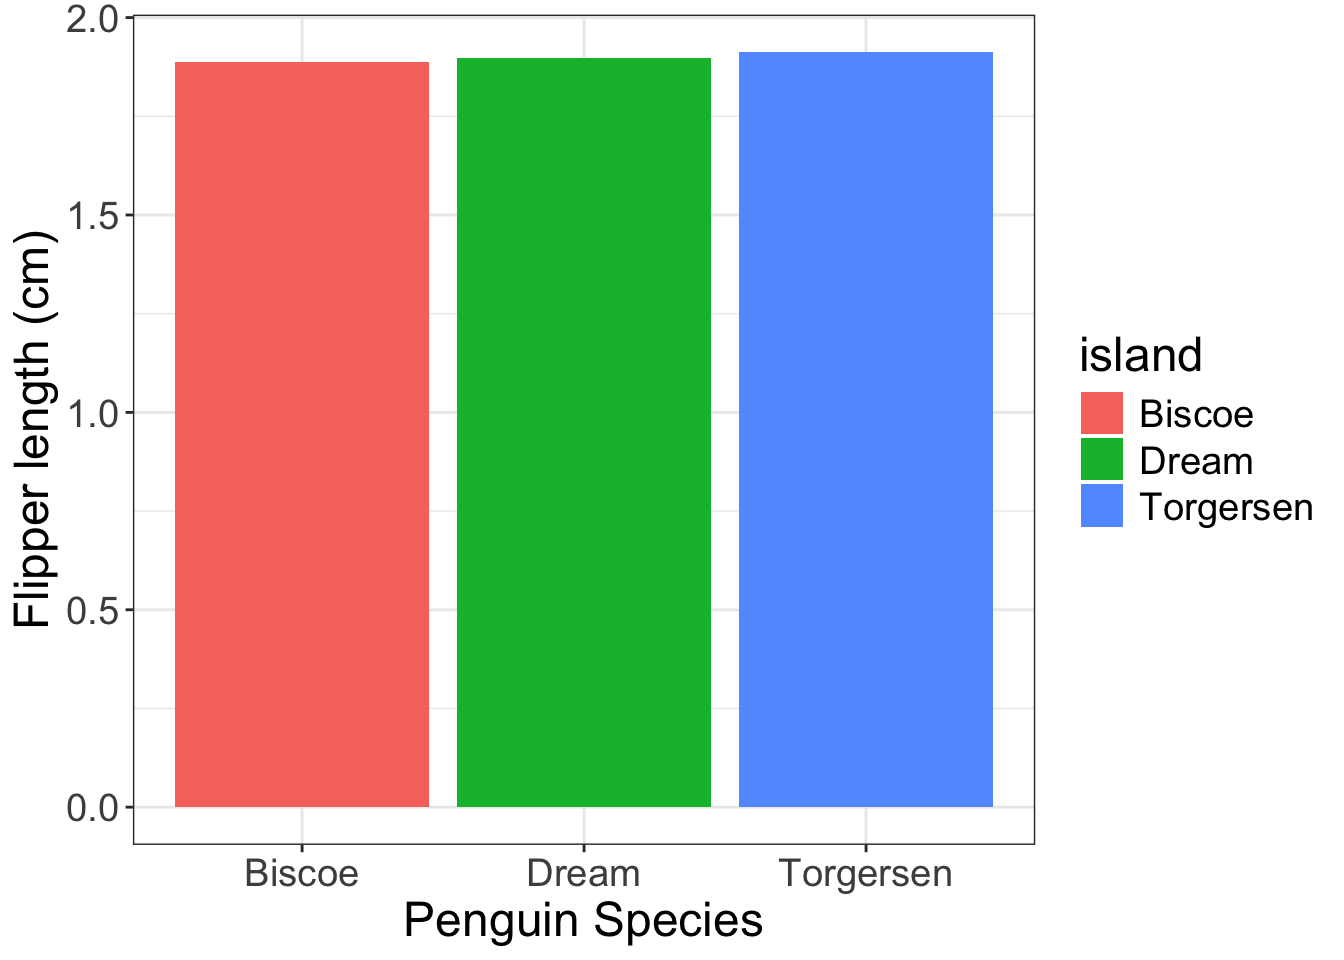
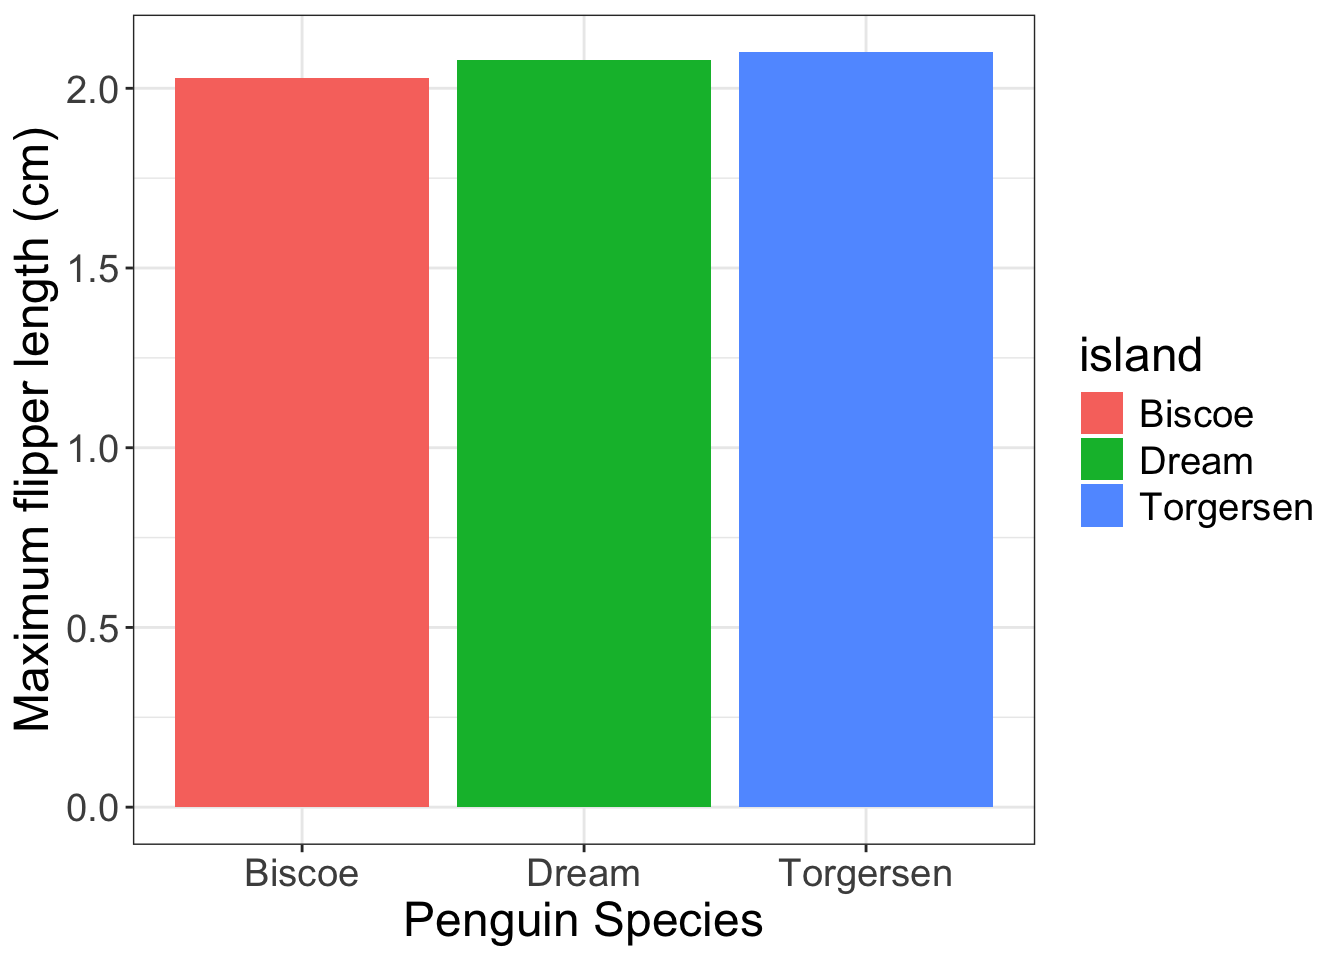
Rerender site

diff --git a/docs/posts/python_penguins/index.html b/docs/posts/python_penguins/index.html
@@ -9,7 +9,7 @@
 <meta name="author" content="Meredith Fraser">
 <meta name="dcterms.date" content="2026-09-22">
 
-<title>Visualizing the palmer penguins data Python – Meredith Fraser</title>
+<title>Visualizing the palmer penguins data with Python – Meredith Fraser</title>
 <style>
 /* Default styles provided by pandoc.
 ** See https://pandoc.org/MANUAL.html#variables-for-html for config info.
@@ -166,7 +166,7 @@ pre > code.sourceCode > span > a:first-child::before { text-decoration: underlin
 
 <header id="title-block-header" class="quarto-title-block default">
 <div class="quarto-title">
-<h1 class="title">Visualizing the palmer penguins data Python</h1>
+<h1 class="title">Visualizing the palmer penguins data with Python</h1>
 </div>
 
 
@@ -196,9 +196,9 @@ pre > code.sourceCode > span > a:first-child::before { text-decoration: underlin
 
 
 <p>In this blog, we are going to examine the palmer penguins dataset (Gorman et al., 2014; Palmer Penguins Dataset, 2014) using python. Data were collected and made available by Dr.&nbsp;Kristen Gorman and the Palmer Station, Antarctica LTER.</p>
-<p>I am interested in finding out which island (recorded from 3 islands in the Palmer Archipelage, Antarctica) has the longest average flipper length (cm) for all the Adelie penguin species measured (only species with flipper length measurements from all 3 islands).</p>
+<p>I am interested in finding out which island (recorded from 3 islands in the Palmer Archipelage, Antarctica) has the longest (maximum) flipper length (cm) for all the Adelie penguin species measured (only species with flipper length measurements from all 3 islands).</p>
 <p>I will first start by organizing or ‘tidying’ the data for our question.</p>
-<div id="ad11765d" class="cell" data-message="false" data-execution_count="1">
+<div id="9011653d" class="cell" data-message="false" data-execution_count="1">
 <div class="code-copy-outer-scaffold"><div class="sourceCode cell-code" id="cb1"><pre class="sourceCode python code-with-copy"><code class="sourceCode python"><span id="cb1-1"><a href="#cb1-1" aria-hidden="true" tabindex="-1"></a><span class="co"># Import the required libraries</span></span>
 <span id="cb1-2"><a href="#cb1-2" aria-hidden="true" tabindex="-1"></a><span class="im">import</span> pandas <span class="im">as</span> pd</span>
 <span id="cb1-3"><a href="#cb1-3" aria-hidden="true" tabindex="-1"></a><span class="im">from</span> palmerpenguins <span class="im">import</span> load_penguins</span>
@@ -225,17 +225,18 @@ pre > code.sourceCode > span > a:first-child::before { text-decoration: underlin
 5  Torgersen               1.90</code></pre>
 </div>
 </div>
-<p>Now we can group the tidied data by island, to calculate the mean flipper length in cm, and then sort the resulting means from longest to shortest.</p>
-<div id="01240ed2" class="cell" data-execution_count="2">
+<p>Now we can group the tidied data by island, to calculate the max flipper length in cm, and then sort the resulting maximum flipper length measurements from longest to shortest.</p>
+<div id="d6e23277" class="cell" data-execution_count="2">
 <div class="code-copy-outer-scaffold"><div class="sourceCode cell-code" id="cb3"><pre class="sourceCode python code-with-copy"><code class="sourceCode python"><span id="cb3-1"><a href="#cb3-1" aria-hidden="true" tabindex="-1"></a>penguins_summary <span class="op">=</span> (</span>
 <span id="cb3-2"><a href="#cb3-2" aria-hidden="true" tabindex="-1"></a>    penguins_clean</span>
 <span id="cb3-3"><a href="#cb3-3" aria-hidden="true" tabindex="-1"></a>    .groupby([<span class="st">'island'</span>])[<span class="st">'flipper_length_cm'</span>]</span>
-<span id="cb3-4"><a href="#cb3-4" aria-hidden="true" tabindex="-1"></a>    .mean()</span>
-<span id="cb3-5"><a href="#cb3-5" aria-hidden="true" tabindex="-1"></a>    .sort_values(ascending<span class="op">=</span><span class="va">False</span>)</span>
-<span id="cb3-6"><a href="#cb3-6" aria-hidden="true" tabindex="-1"></a>    .reset_index()</span>
-<span id="cb3-7"><a href="#cb3-7" aria-hidden="true" tabindex="-1"></a>)</span></code></pre></div><button title="Copy to Clipboard" class="code-copy-button"><i class="bi"></i></button></div>
+<span id="cb3-4"><a href="#cb3-4" aria-hidden="true" tabindex="-1"></a>    .<span class="bu">max</span>()</span>
+<span id="cb3-5"><a href="#cb3-5" aria-hidden="true" tabindex="-1"></a>    .<span class="bu">round</span>(<span class="dv">3</span>)</span>
+<span id="cb3-6"><a href="#cb3-6" aria-hidden="true" tabindex="-1"></a>    .sort_values(ascending<span class="op">=</span><span class="va">False</span>)</span>
+<span id="cb3-7"><a href="#cb3-7" aria-hidden="true" tabindex="-1"></a>    .reset_index()</span>
+<span id="cb3-8"><a href="#cb3-8" aria-hidden="true" tabindex="-1"></a>)</span></code></pre></div><button title="Copy to Clipboard" class="code-copy-button"><i class="bi"></i></button></div>
 </div>
-<p>I want to produce a clean-looking table with the three islands sorted according to longest flipper length (measured in cm) for the Adelie penguin species.</p>
+<p>I want to produce a clean-looking table with the three islands sorted according to longest maximum flipper length (measured in cm) for the Adelie penguin species.</p>
 <div id="cell-table-penguin-flipper-length" class="cell" data-table-cap="Top 3 flipper length of Adelie penguin species by island." data-execution_count="3">
 <div class="code-copy-outer-scaffold"><div class="sourceCode cell-code" id="cb4"><pre class="sourceCode python code-with-copy"><code class="sourceCode python"><span id="cb4-1"><a href="#cb4-1" aria-hidden="true" tabindex="-1"></a>Adelie_flipper_table <span class="op">=</span> penguins_summary.style.hide(axis<span class="op">=</span><span class="st">"index"</span>)</span>
 <span id="cb4-2"><a href="#cb4-2" aria-hidden="true" tabindex="-1"></a>Adelie_flipper_table</span></code></pre></div><button title="Copy to Clipboard" class="code-copy-button"><i class="bi"></i></button></div>
@@ -243,31 +244,31 @@ pre > code.sourceCode > span > a:first-child::before { text-decoration: underlin
 <style type="text/css">
 </style>
 
-<table id="T_53ebf" class="caption-top table table-sm table-striped small">
+<table id="T_eef72" class="caption-top table table-sm table-striped small">
 <thead>
 <tr class="header">
-<th id="T_53ebf_level0_col0" class="col_heading level0 col0" data-quarto-table-cell-role="th">island</th>
-<th id="T_53ebf_level0_col1" class="col_heading level0 col1" data-quarto-table-cell-role="th">flipper_length_cm</th>
+<th id="T_eef72_level0_col0" class="col_heading level0 col0" data-quarto-table-cell-role="th">island</th>
+<th id="T_eef72_level0_col1" class="col_heading level0 col1" data-quarto-table-cell-role="th">flipper_length_cm</th>
 </tr>
 </thead>
 <tbody>
 <tr class="odd">
-<td id="T_53ebf_row0_col0" class="data row0 col0">Torgersen</td>
-<td id="T_53ebf_row0_col1" class="data row0 col1">1.911961</td>
+<td id="T_eef72_row0_col0" class="data row0 col0">Torgersen</td>
+<td id="T_eef72_row0_col1" class="data row0 col1">2.100000</td>
 </tr>
 <tr class="even">
-<td id="T_53ebf_row1_col0" class="data row1 col0">Dream</td>
-<td id="T_53ebf_row1_col1" class="data row1 col1">1.897321</td>
+<td id="T_eef72_row1_col0" class="data row1 col0">Dream</td>
+<td id="T_eef72_row1_col1" class="data row1 col1">2.080000</td>
 </tr>
 <tr class="odd">
-<td id="T_53ebf_row2_col0" class="data row2 col0">Biscoe</td>
-<td id="T_53ebf_row2_col1" class="data row2 col1">1.887955</td>
+<td id="T_eef72_row2_col0" class="data row2 col0">Biscoe</td>
+<td id="T_eef72_row2_col1" class="data row2 col1">2.030000</td>
 </tr>
 </tbody>
 </table>
 </div>
 </div>
-<p>As you can see in the table, the average flipper length (cm) for all Adelie penguin species is very similar across the three islands sampled, however Adelie penguins on Torgersen had the longest flipper length on average.</p>
+<p>As you can see in the table, the maximum flipper length (cm) for all Adelie penguins is similar across the three islands sampled, however an Adelie penguin on Torgersen had the longest maximum flipper length (cm), then Dream, then Biscoe.</p>
 <p><strong>References</strong></p>
 <p>Gorman, K. B., Williams, T. D., &amp; Fraser, W. R. (2014). Ecological sexual dimorphism and environmental variability within a community of Antarctic penguins (genus Pygoscelis). PloS one, 9(3), e90081. https://doi.org/10.1371/journal.pone.0090081</p>
 <p>Palmer Penguins [Dataset]. (2014). UCI Machine Learning Repository. https://doi.org/10.24432/C5R89W</p>

diff --git a/docs/posts/R_penguins/index.html b/docs/posts/R_penguins/index.html
@@ -193,7 +193,7 @@ pre > code.sourceCode > span > a:first-child::before { text-decoration: underlin
 
 
 <p>In this blog, we are going to examine the palmer penguins dataset (Gorman et al., 2014; Palmer Penguins Dataset, 2014) using R. Data were collected and made available by Dr.&nbsp;Kristen Gorman and the Palmer Station, Antarctica LTER.</p>
-<p>I am interested in visualizing which island (recorded from 3 islands in the Palmer Archipelage, Antarctica) has the longest average flipper length (cm) for all the Adelie penguin species measured (only species with flipper length measurements from all 3 islands).</p>
+<p>I am interested in visualizing which island (recorded from 3 islands in the Palmer Archipelage, Antarctica) has the longest maximum flipper length (cm) for all the Adelie penguin species measured (only species with flipper length measurements from all 3 islands).</p>
 <p>I will first start by organizing or ‘tidying’ the data for our question.</p>
 <div class="cell">
 <div class="code-copy-outer-scaffold"><div class="sourceCode cell-code" id="cb1"><pre class="sourceCode r code-with-copy"><code class="sourceCode r"><span id="cb1-1"><a href="#cb1-1" aria-hidden="true" tabindex="-1"></a><span class="fu">library</span>(tidyverse)</span>
@@ -227,16 +227,16 @@ pre > code.sourceCode > span > a:first-child::before { text-decoration: underlin
 <div class="cell">
 <div class="code-copy-outer-scaffold"><div class="sourceCode cell-code" id="cb3"><pre class="sourceCode r code-with-copy"><code class="sourceCode r"><span id="cb3-1"><a href="#cb3-1" aria-hidden="true" tabindex="-1"></a>penguins_summary <span class="ot">&lt;-</span> penguins_clean <span class="sc">|&gt;</span></span>
 <span id="cb3-2"><a href="#cb3-2" aria-hidden="true" tabindex="-1"></a>    <span class="fu">group_by</span>(island) <span class="sc">|&gt;</span></span>
-<span id="cb3-3"><a href="#cb3-3" aria-hidden="true" tabindex="-1"></a>    <span class="fu">summarise</span>(<span class="at">mean_flipper_length_cm =</span> <span class="fu">mean</span>(flipper_length_cm)) </span></code></pre></div><button title="Copy to Clipboard" class="code-copy-button"><i class="bi"></i></button></div>
+<span id="cb3-3"><a href="#cb3-3" aria-hidden="true" tabindex="-1"></a>    <span class="fu">summarise</span>(<span class="at">max_flipper_length_cm =</span> <span class="fu">max</span>(flipper_length_cm)) </span></code></pre></div><button title="Copy to Clipboard" class="code-copy-button"><i class="bi"></i></button></div>
 </div>
-<p>I want to produce a bar plot of average flipper length (cm), by island for the Adelie penguin species.</p>
+<p>I want to produce a bar plot of maximum flipper length (cm), by island for the Adelie penguin species.</p>
 <div class="cell" data-table-cap="Flipper length of species for the Adelie species">
 <div class="code-copy-outer-scaffold"><div class="sourceCode cell-code" id="cb4"><pre class="sourceCode r code-with-copy"><code class="sourceCode r"><span id="cb4-1"><a href="#cb4-1" aria-hidden="true" tabindex="-1"></a><span class="fu">ggplot</span>(<span class="at">data =</span> penguins_summary, <span class="at">mapping =</span> <span class="fu">aes</span>(<span class="at">x =</span> island, </span>
-<span id="cb4-2"><a href="#cb4-2" aria-hidden="true" tabindex="-1"></a>                                      <span class="at">y =</span> mean_flipper_length_cm,</span>
+<span id="cb4-2"><a href="#cb4-2" aria-hidden="true" tabindex="-1"></a>                                      <span class="at">y =</span> max_flipper_length_cm,</span>
 <span id="cb4-3"><a href="#cb4-3" aria-hidden="true" tabindex="-1"></a>                                     <span class="at">fill =</span> island)) <span class="sc">+</span></span>
 <span id="cb4-4"><a href="#cb4-4" aria-hidden="true" tabindex="-1"></a>    <span class="fu">geom_col</span>(<span class="at">size =</span> <span class="dv">2</span>) <span class="sc">+</span></span>
 <span id="cb4-5"><a href="#cb4-5" aria-hidden="true" tabindex="-1"></a>    <span class="fu">xlab</span>(<span class="st">"Penguin Species"</span>) <span class="sc">+</span></span>
-<span id="cb4-6"><a href="#cb4-6" aria-hidden="true" tabindex="-1"></a>    <span class="fu">ylab</span>(<span class="st">"Flipper length (cm)"</span>) <span class="sc">+</span></span>
+<span id="cb4-6"><a href="#cb4-6" aria-hidden="true" tabindex="-1"></a>    <span class="fu">ylab</span>(<span class="st">"Maximum flipper length (cm)"</span>) <span class="sc">+</span></span>
 <span id="cb4-7"><a href="#cb4-7" aria-hidden="true" tabindex="-1"></a>    <span class="fu">theme_bw</span>() <span class="sc">+</span></span>
 <span id="cb4-8"><a href="#cb4-8" aria-hidden="true" tabindex="-1"></a>    <span class="fu">theme</span>(<span class="at">text =</span> <span class="fu">element_text</span>(<span class="at">size =</span> <span class="dv">18</span>))</span></code></pre></div><button title="Copy to Clipboard" class="code-copy-button"><i class="bi"></i></button></div>
 <div class="cell-output cell-output-stderr">
@@ -255,7 +255,7 @@ Figure&nbsp;1
 </div>
 </div>
 </div>
-<p>As you can see in Figure 1, the average flipper length (cm) for all Adelie penguin species is very similar across the three islands sampled, however Adelie penguins on Torgersen had the longest flipper length on average.</p>
+<p>As you can see in Figure 1, the maximum flipper length (cm) for all Adelie penguins is similar across the three islands sampled, however an Adelie penguin on Torgersen had the longest maximum flipper length (cm), then Dream, then Biscoe.</p>
 <p><strong>References</strong></p>
 <p>Gorman, K. B., Williams, T. D., &amp; Fraser, W. R. (2014). Ecological sexual dimorphism and environmental variability within a community of Antarctic penguins (genus Pygoscelis). PloS one, 9(3), e90081. https://doi.org/10.1371/journal.pone.0090081</p>
 <p>Palmer Penguins [Dataset]. (2014). UCI Machine Learning Repository. https://doi.org/10.24432/C5R89W</p>

diff --git a/docs/blog.html b/docs/blog.html
@@ -209,7 +209,7 @@ window.Quarto = {
 
 <div class="quarto-listing quarto-listing-container-default" id="listing-listing">
 <div class="list quarto-listing-default">
-<div class="quarto-post image-right" data-index="0" data-listing-date-sort="1790060400000" data-listing-file-modified-sort="1790137010794" data-listing-date-modified-sort="NaN" data-listing-reading-time-sort="2" data-listing-word-count-sort="343">
+<div class="quarto-post image-right" data-index="0" data-listing-date-sort="1790060400000" data-listing-file-modified-sort="1790195170732" data-listing-date-modified-sort="NaN" data-listing-reading-time-sort="2" data-listing-word-count-sort="354">
 <div class="thumbnail"><a href="./posts/python_penguins/index.html" class="no-external">
 
 <div class="listing-item-img-placeholder card-img-top" >&nbsp;</div>
@@ -217,7 +217,7 @@ window.Quarto = {
 </a></div>
 <div class="body">
 <h3 class="no-anchor listing-title">
-<a href="./posts/python_penguins/index.html" class="no-external">Visualizing the palmer penguins data Python</a>
+<a href="./posts/python_penguins/index.html" class="no-external">Visualizing the palmer penguins data with Python</a>
 </h3>
 <div class="delink listing-description"><a href="./posts/python_penguins/index.html" class="no-external">
 In this blog, we are going to examine the palmer penguins dataset (Gorman et al., 2014; Palmer Penguins Dataset, 2014) using python. Data were collected and made available…
@@ -234,7 +234,7 @@ Meredith Fraser
 </a>
 </div>
 </div>
-<div class="quarto-post image-right" data-index="1" data-listing-date-sort="1790060400000" data-listing-file-modified-sort="1790137088940" data-listing-date-modified-sort="NaN" data-listing-reading-time-sort="3" data-listing-word-count-sort="456">
+<div class="quarto-post image-right" data-index="1" data-listing-date-sort="1790060400000" data-listing-file-modified-sort="1790195068333" data-listing-date-modified-sort="NaN" data-listing-reading-time-sort="3" data-listing-word-count-sort="460">
 <div class="thumbnail"><a href="./posts/R_penguins/index.html" class="no-external">
 
 <p class="card-img-top"><img loading='lazy' src="posts/R_penguins/index_files/figure-html/fig-Adelie-penguin-flipper-R-1.png"  class="thumbnail-image card-img"/></p>
